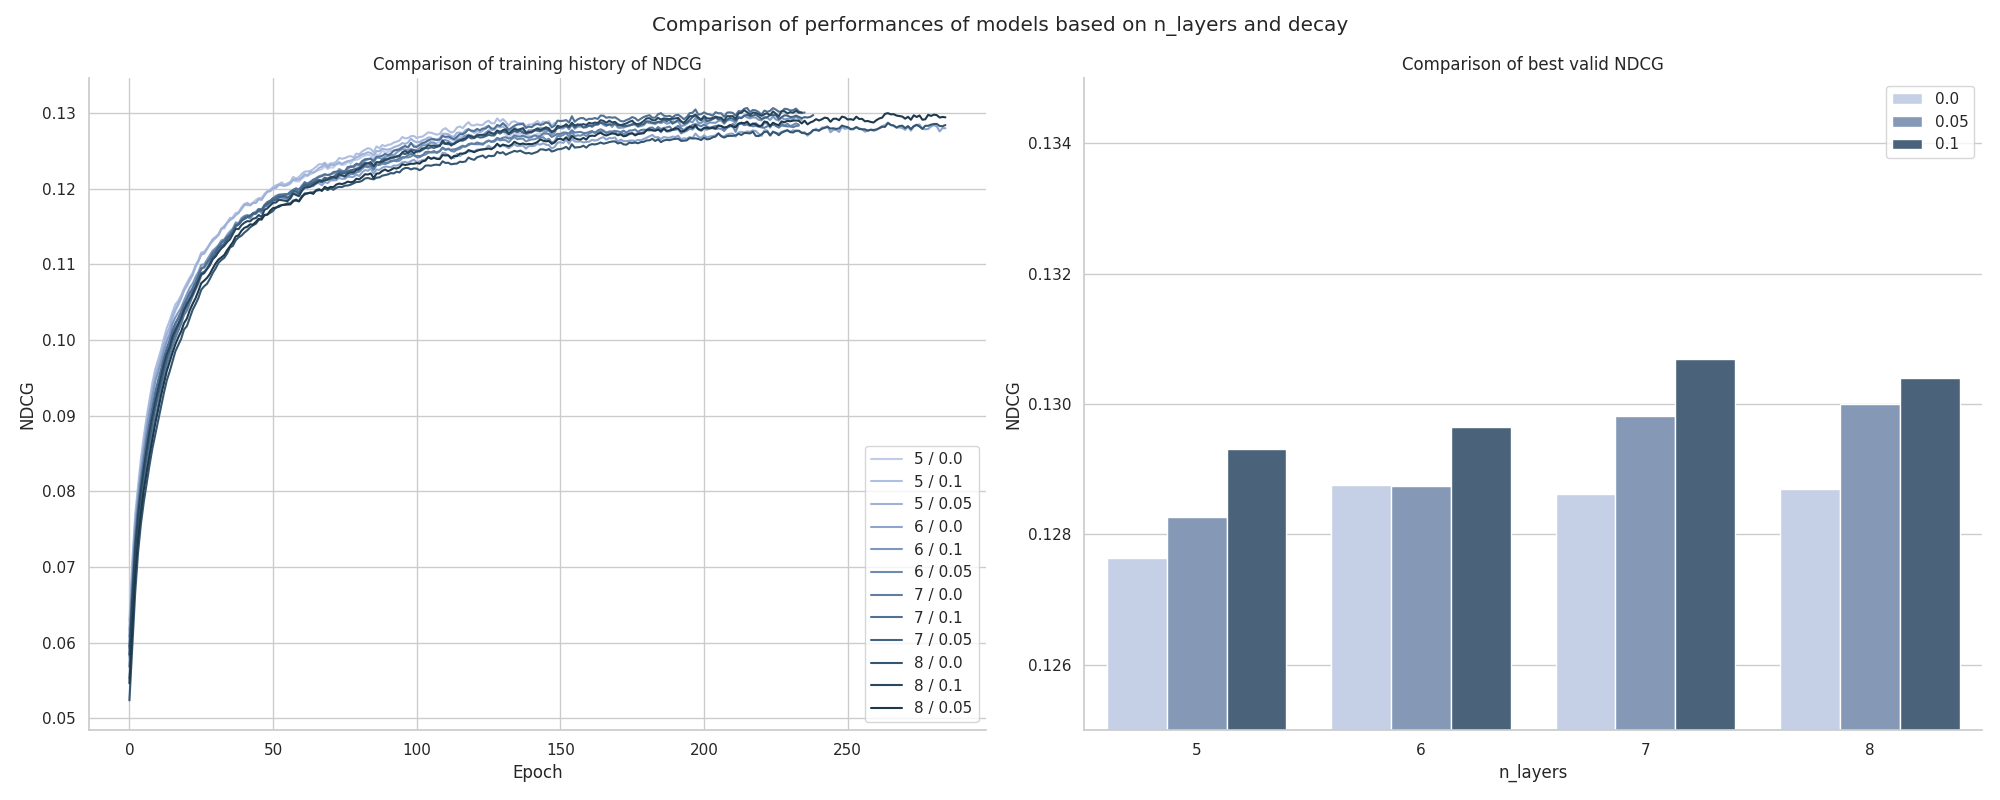
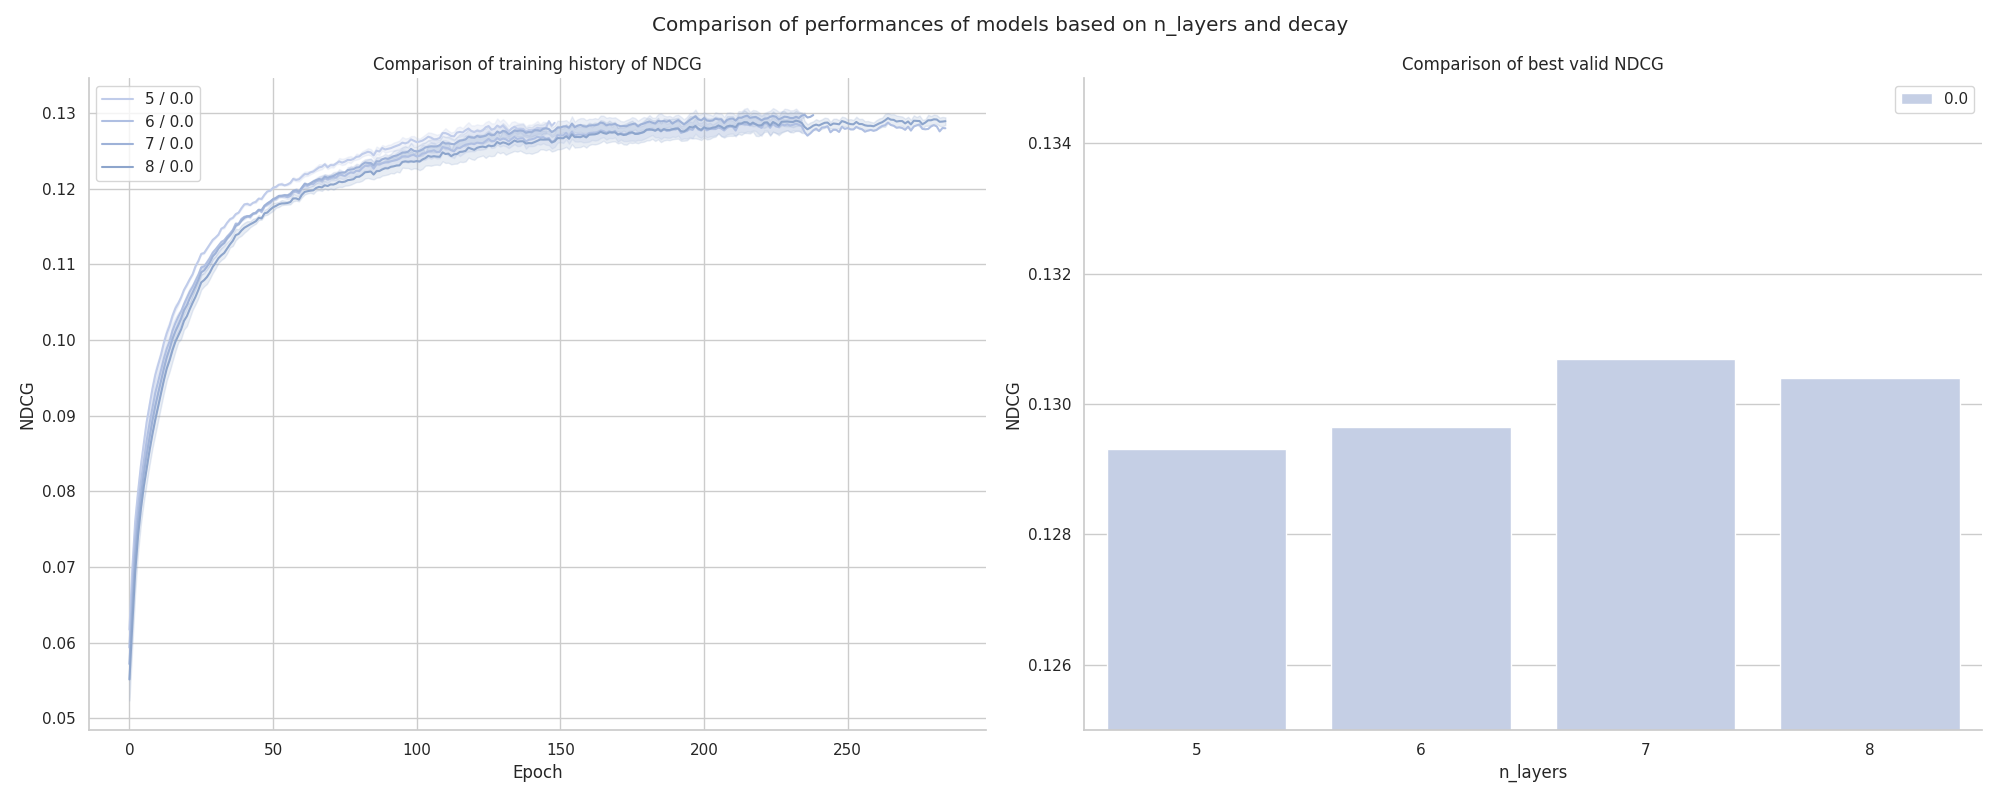
add time decay

diff --git a/training/dataset.py b/training/dataset.py
@@ -36,7 +36,23 @@ def build_adjacency_matrix(cfg):
     u_ids = train_pos["uid"].values
     i_ids = train_pos["iid"].values
 
-    R = sp.coo_matrix((np.ones(len(u_ids)), (u_ids, i_ids)), shape=(n_users, n_items))
+    time_decay = cfg.model.get("time_decay", 0.0)
+
+    if time_decay == 0:
+        weights = np.ones(len(u_ids))
+        graph_path = f"{cfg.paths.graph}/graph.pt"
+
+    else:
+        t_values = train_pos["time"].values.astype(np.float32)
+        t_max = t_values.max()
+        time_diff_days = (t_max - t_values) / 86400.0
+
+        time_min_weight = cfg["model"]["time_min_weight"]
+        weights = (1 - time_min_weight) * np.exp(-time_decay * time_diff_days) + time_min_weight
+
+        graph_path = f"{cfg.paths.graph}/graph_time_decay_{time_decay}_{time_min_weight}.pt"
+
+    R = sp.coo_matrix((weights, (u_ids, i_ids)), shape=(n_users, n_items))
 
     top_left = sp.csr_matrix((n_users, n_users))
     bottom_right = sp.csr_matrix((n_items, n_items))
@@ -59,14 +75,22 @@ def build_adjacency_matrix(cfg):
     values = torch.from_numpy(coo.data.astype(np.float32))
 
     graph = torch.sparse_coo_tensor(indices, values, coo.shape).coalesce()
-
-    torch.save(graph, f"{cfg.paths.result}/graph.pt")
+    torch.save(graph, graph_path)
 
 def load_adjacency_matrix(cfg):
-    if not os.path.exists(f"{cfg.paths.result}/graph.pt"):
+    time_decay = cfg.model.get("time_decay", 0.0)
+    time_min_weight = cfg.model.get("time_min_weight", 0.0)
+
+    os.makedirs(cfg.paths.graph, exist_ok=True)
+    if time_decay == 0:
+        graph_path = f"{cfg.paths.graph}/graph.pt"
+    else:
+        graph_path = f"{cfg.paths.graph}/graph_time_decay_{time_decay}_{time_min_weight}.pt"
+
+    if not os.path.exists(graph_path):
         build_adjacency_matrix(cfg)
 
-    graph = torch.load(f"{cfg.paths.result}/graph.pt")
+    graph = torch.load(graph_path)
     return graph
 
 class CuisineDataset(Dataset):

diff --git a/evaluation/compare_models.py b/evaluation/compare_models.py
@@ -199,4 +199,15 @@ if __name__ == "__main__":
         "emb_512_n_layers_8_reg_0.001_gentle_0.1_gcl",
     ]
     targets = [["model", "n_layers"], ["training", "gcl_reg"]]
-    plot_comparisons_two_targets(names, targets, config_path, target_name=None, sub_target_name="None")
+    plot_comparisons_two_targets(names, targets, config_path, target_name=None, sub_target_name=None)
+
+    names = [
+        "time_decay_0.001_0.1",
+        "time_decay_0.001_0.3",
+        "time_decay_0.0005_0.1",
+        "time_decay_0.0005_0.3",
+        "time_decay_0.0001_0.1",
+        "time_decay_0.0001_0.3",
+    ]
+    targets = [["model", "time_decay"], ["model", "time_min_weight"]]
+    plot_comparisons_two_targets(names, targets, config_path, target_name=None, sub_target_name=None)

diff --git a/training/lightgcn.py b/training/lightgcn.py
@@ -14,14 +14,14 @@ class LightGCN(nn.Module):
 
         nn.init.xavier_normal_(self.embedding.weight)
 
-        weight_method = cfg.model.get("weighting", "uniform")
+        weight_method = cfg.model.get("layer_weighting", "uniform")
 
         num_weights = self.n_layers + 1
         if weight_method == "uniform":
             weights = torch.ones(num_weights)
         elif weight_method == "gentle":
-            decay = cfg.model.get("decay", 0.1)
-            weights = torch.ones(num_weights) - torch.arange(num_weights) * decay
+            layer_decay = cfg.model.get("layer_decay", 0.1)
+            weights = torch.ones(num_weights) - torch.arange(num_weights) * layer_decay
         else:
             raise NotImplementedError
 
